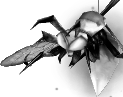
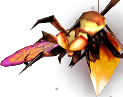
take 15

diff --git a/src/firefly_synth/firefly_synth/synth.cpp b/src/firefly_synth/firefly_synth/synth.cpp
@@ -364,8 +364,8 @@ synth_topo(bool is_fx)
     result->type = plugin_type::synth; 
     result->tag = make_topo_tag_basic(FF_SYNTH_INST_ID, FF_SYNTH_INST_NAME);
   }
-     
-  result->gui.default_theme = "Firefly Dark";       
+      
+  result->gui.default_theme = "Firefly Default";       
   result->gui.custom_sections.resize(is_fx? custom_section_fx_count: custom_section_synth_count);
   result->gui.dimension_factory = [is_fx](auto const& settings) { return make_plugin_dimension(is_fx, settings); };
   auto make_title_text_section_ui = [is_fx](plugin_gui* gui, lnf* lnf, auto store) -> Component& {

diff --git a/plugin_base/src/plugin_base/plugin_base/gui/lnf.cpp b/plugin_base/src/plugin_base/plugin_base/gui/lnf.cpp
@@ -459,7 +459,7 @@ void
 lnf::drawLabel(Graphics& g, Label& label)
 {
   g.fillAll(label.findColour(Label::backgroundColourId));
-    
+     
   if (auto afl = dynamic_cast<autofit_label*>(&label))
     if (afl->tabular())
       draw_tabular_cell_bg(g, &label, 0.075f, global_settings().table_cell_radius);
